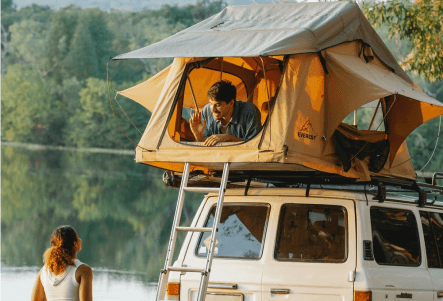
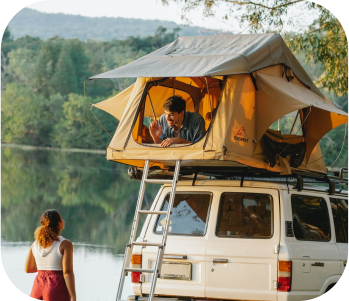
changed blocks choose photos and travel photos 1140 360

diff --git a/index.html b/index.html
@@ -342,51 +342,80 @@
 
         <div class="photos__items">
           <div class="photos__row row1">
-            <div class="photo__item photo1">
-              <img src="assets/photos/travelphoto1.jpg" alt="">
-            </div>
-            <div class="photo__item photo2"> 
-              <img src="assets/photos/travelphoto2.jpg" alt="">
-            </div>
-            <div class="photo__item photo3"> 
-              <img src="assets/photos/travelphoto3.jpg" alt="">
-            </div>
-            <div class="photo__item photo4"> 
-              <img src="assets/photos/travelphoto4.jpg" alt="">
-            </div>
+              <picture class="photo__item photo1">
+                <source media="(max-width: 480px)" srcset="assets/photos/670/travelphoto/tp1.png">
+                <source media="(max-width: 1140px)" srcset="assets/photos/1140/travelphoto/tp1.png">
+                <img src="assets/photos/travelphoto1.jpg" alt="">
+              </picture>
+            
+              <picture  class="photo__item photo2">
+                <img src="assets/photos/travelphoto2.jpg" alt="">
+              </picture>
+            
+            
+              <picture class="photo__item photo3">
+                <source media="(max-width: 1140px)" srcset="assets/photos/1140/travelphoto/tp3.png">
+                <img src="assets/photos/travelphoto3.jpg" alt="">
+              </picture>
+              
+            
+              <picture class="photo__item photo4">
+                <source media="(max-width: 480px)" srcset="assets/photos/670/travelphoto/tp4.png">
+                <source media="(max-width: 1140px)" srcset="assets/photos/1140/travelphoto/tp4.png">
+                <img src="assets/photos/travelphoto4.jpg" alt="">
+              </picture>
           </div> 
 
           <div class="photos__row row2">
-            <div class="photo__item photo5"> 
-              <img src="assets/photos/travelphoto5.jpg" alt="">
-            </div>
-            <div class="photo__item photo6"> 
-              <img src="assets/photos/travelphoto6.jpg" alt="">
-            </div>
-            <div class="photo__item photo7"> 
-              <img src="assets/photos/travelphoto7.jpg" alt="">
-            </div>
-            <div class="photo__item photo8"> 
-              <img src="assets/photos/travelphoto8.png" alt="">
-            </div>
-            <div class="photo__item photo9"> 
-              <img src="assets/photos/travelphoto9.jpg" alt="">
-            </div>
+              <picture class="photo__item photo5"> 
+                <img src="assets/photos/travelphoto5.png" alt="">
+              </picture>
+              
+              <picture class="photo__item photo6"> 
+                <source media="(max-width: 1140px)" srcset="assets/photos/1140/travelphoto/tp6.png">
+                <img src="assets/photos/travelphoto6.jpg" alt="">
+              </picture>
+
+              <picture class="photo__item photo7"> 
+                <img src="assets/photos/travelphoto7.jpg" alt="">
+              </picture>
+              
+
+              <picture class="photo__item photo8">
+                <source media="(max-width: 480px)" srcset="assets/photos/670/travelphoto/tp8.png">
+                <source media="(max-width: 1140px)" srcset="assets/photos/1140/travelphoto/tp8.png">
+                <img src="assets/photos/travelphoto8.png" alt="">
+              </picture> 
+
+              <picture class="photo__item photo9"> 
+                <source media="(max-width: 480px)" srcset="assets/photos/670/travelphoto/tp9.png">
+                <source media="(max-width: 1140px)" srcset="assets/photos/1140/travelphoto/tp9.png">
+                <img src="assets/photos/travelphoto9.png" alt="">
+              </picture>
           </div>
           
           <div class="photos__row row3">
-            <div class="photo__item photo10">
-              <img src="assets/photos/travelphoto10.jpg" alt="">
-            </div>
-            <div class="photo__item photo11"> 
-              <img src="assets/photos/travelphoto11.jpg" alt="">
-            </div>
-            <div class="photo__item photo12"> 
-              <img src="assets/photos/travelphoto12.jpg" alt="">
-            </div>
-            <div class="photo__item photo13"> 
-              <img src="assets/photos/travelphoto13.jpg" alt="">
-            </div>
+              <picture class="photo__item photo10">
+                <source media="(max-width: 480px)" srcset="assets/photos/670/travelphoto/tp10.png">
+                <source media="(max-width: 1140px)" srcset="assets/photos/1140/travelphoto/tp10.png">
+                <img src="assets/photos/travelphoto10.jpg" alt="">
+              </picture>
+
+              <picture class="photo__item photo11"> 
+                <source media="(max-width: 480px)" srcset="assets/photos/670/travelphoto/tp11.png">
+                <source media="(max-width: 1140px)" srcset="assets/photos/1140/travelphoto/tp11.png">
+                <img src="assets/photos/travelphoto11.jpg" alt="">
+              </picture>
+            
+              <picture  class="photo__item photo12"> 
+                <source media="(max-width: 1140px)" srcset="assets/photos/1140/travelphoto/tp12.png">
+                <img src="assets/photos/travelphoto12.jpg" alt="">
+              </picture>
+              
+              <picture class="photo__item photo13">
+                <img src="assets/photos/travelphoto13.jpg" alt="">
+              </picture>
+
           </div>
 
         </div>

diff --git a/index.css b/index.css
@@ -330,7 +330,7 @@ body {
   background: 
     linear-gradient(360deg, rgba(0, 0, 0, 0.4) 0%, rgba(0, 0, 0, 0.06) 48.44%, rgba(0, 0, 0, 0.5) 100%),
     url(assets/photos/cardtourphoto1.jpg) center no-repeat;
-  background-size: contain;
+  background-size: cover;
   transition: all 300ms ease;
   top: 0;
   left: 0;
@@ -345,8 +345,8 @@ body {
 
   background: 
     linear-gradient(360deg, rgba(0, 0, 0, 0.4) 0%, rgba(0, 0, 0, 0.06) 48.44%, rgba(0, 0, 0, 0.5) 100%),
-    url(assets/photos/cardtourphoto2.jpg) center no-repeat;
-  background-size: contain;
+    url(assets/photos/cardt2.png) center no-repeat;
+  background-size: cover;
   transition: all 300ms ease;
   top: 0;
   left: 0;
@@ -361,8 +361,8 @@ body {
 
   background: 
     linear-gradient(360deg, rgba(0, 0, 0, 0.4) 0%, rgba(0, 0, 0, 0.06) 48.44%, rgba(0, 0, 0, 0.5) 100%),
-    url(assets/photos/cardtourphoto3.jpg) center no-repeat;
-  background-size: contain;
+    url(assets/photos/cardt3.png) center no-repeat;
+  background-size: cover;
   transition: all 300ms ease;
   top: 0;
   left: 0;
@@ -378,7 +378,7 @@ body {
   background: 
     linear-gradient(360deg, rgba(0, 0, 0, 0.4) 0%, rgba(0, 0, 0, 0.06) 48.44%, rgba(0, 0, 0, 0.5) 100%),
     url(assets/photos/cardtourphoto4.jpg) center no-repeat;
-  background-size: contain;
+  background-size: cover;
   transition: all 300ms ease;
   top: 0;
   left: 0;
@@ -393,8 +393,8 @@ body {
 
   background: 
     linear-gradient(360deg, rgba(0, 0, 0, 0.4) 0%, rgba(0, 0, 0, 0.06) 48.44%, rgba(0, 0, 0, 0.5) 100%),
-    url(assets/photos/cardtourphoto5.jpg) center no-repeat;
-  background-size: contain;
+    url(assets/photos/cardt5.png) center no-repeat;
+  background-size: cover;
   transition: all 300ms ease;
   top: 0;
   left: 0;
@@ -409,8 +409,8 @@ body {
 
   background: 
     linear-gradient(360deg, rgba(0, 0, 0, 0.4) 0%, rgba(0, 0, 0, 0.06) 48.44%, rgba(0, 0, 0, 0.5) 100%),
-    url(assets/photos/cardtourphoto6.jpg) center no-repeat;
-  background-size: contain;
+    url(assets/photos/cardt6.png) center no-repeat;
+  background-size: cover;
   transition: all 300ms ease;
   top: 0;
   left: 0;
@@ -787,7 +787,6 @@ label input:checked ~ .fakeradio:after {
   flex-direction: column;
   gap: 30px;
   justify-content: center;
-  margin: 0 12px;
 }
 
 .photos__row {
@@ -807,7 +806,7 @@ label input:checked ~ .fakeradio:after {
   overflow: hidden;
 }
 
-.row1 .photo__item, .row3 .photo__item {
+.row1 .photo__item picture, .row3 .photo__item {
   width: 442.5px;
 }
 
@@ -1156,8 +1155,9 @@ height: 12px;
   }
   
   .row2 .photo__item {
-    width: 231px;
+    max-width: 231px;
   }
+
 
   .photo2, .photo7, .photo13 {
     display: none;
@@ -1220,9 +1220,6 @@ height: 12px;
     right: 5px;
   }
 
-  .photos__items {
-      margin: 0 -2px;
-  }
 }
 
 @media screen and (max-width: 960px ){
@@ -1442,9 +1439,6 @@ height: 12px;
     padding: 12px 30px;
   }
 
-  .photo3, .photo6, .photo12 {
-    display: none;
-  }
 
   .stories__items {
     gap: 20px;
@@ -1578,11 +1572,17 @@ height: 12px;
   .footer__link {
     height: 15px;
   }
+  
+
+@media screen and (max-width: 740px) {
+  .photo3, .photo6, .photo12 {
+    display: none;
+  }
 }
 
-
-
 @media screen and (max-width: 680px ){ 
+  
+  
   ._container {
     margin: 0 auto;
   }
@@ -1705,22 +1705,6 @@ height: 12px;
     gap: 10px;
   }
 
-  .photo__item {
-    border-radius: 20px;
-    height: 110px;
-  }
-
-  .row1 .photo__item, .row3 .photo__item {
-    width: 150px;
-  }
-  
-  .row3 .photo__item {
-    width: 154px;
-  }
-
-  .row2 .photo__item {
-    width: 99px;
-  }
 
   .join__img img {
     width: 130px;
@@ -1774,6 +1758,79 @@ height: 12px;
     justify-content: space-between;
     align-items: flex-end;
   }
+
+
+      
+  .row1 .photo__item, .row3 .photo__item {
+    width: 385px;
+  }
+  
+  .row2 .photo__item {
+    width: 203px;
+  }
+
+  .item1:before {
+    background: 
+      linear-gradient(360deg, rgba(0, 0, 0, 0.4) 0%, rgba(0, 0, 0, 0.06) 48.44%, rgba(0, 0, 0, 0.5) 100%),
+      url(assets/photos/670/cardtour/ct1.png) center no-repeat;
+  }
+  
+  .item2:before {
+    background: 
+    linear-gradient(360deg, rgba(0, 0, 0, 0.4) 0%, rgba(0, 0, 0, 0.06) 48.44%, rgba(0, 0, 0, 0.5) 100%),
+    url(assets/photos/670/cardtour/ct2.png) center no-repeat;
+  }
+  
+  .item3:before {
+    background: 
+    linear-gradient(360deg, rgba(0, 0, 0, 0.4) 0%, rgba(0, 0, 0, 0.06) 48.44%, rgba(0, 0, 0, 0.5) 100%),
+    url(assets/photos/670/cardtour/ct3.png) center no-repeat;
+  }
+  
+  .item4:before {
+    background: 
+    linear-gradient(360deg, rgba(0, 0, 0, 0.4) 0%, rgba(0, 0, 0, 0.06) 48.44%, rgba(0, 0, 0, 0.5) 100%),
+    url(assets/photos/670/cardtour/ct4.png) center no-repeat;
+  }
+  
+  .item5:before {
+    background: 
+    linear-gradient(360deg, rgba(0, 0, 0, 0.4) 0%, rgba(0, 0, 0, 0.06) 48.44%, rgba(0, 0, 0, 0.5) 100%),
+    url(assets/photos/670/cardtour/ct5.png) center no-repeat;
+  }
+  
+  .item6:before {
+    background: 
+    linear-gradient(360deg, rgba(0, 0, 0, 0.4) 0%, rgba(0, 0, 0, 0.06) 48.44%, rgba(0, 0, 0, 0.5) 100%),
+    url(assets/photos/670/cardtour/ct6.png) center no-repeat;
+  }
+  
+}
+
+
+@media screen and (max-width: 480px) {
+  .photo__item {
+    border-radius: 20px;
+    max-height: 110px;
+  }
+
+
+  .row1, .row2, .row3 {
+    justify-content: space-between;
+  }
+
+  .row1 .photo__item, .row3 .photo__item {
+    width: 152px;
+  }
+  
+  .row3 .photo__item {
+    width: 157px;
+  }
+
+  .row2 .photo__item {
+    width: 100px;
+  }
+  
 }
 
 .header__wrapper-fixed {
